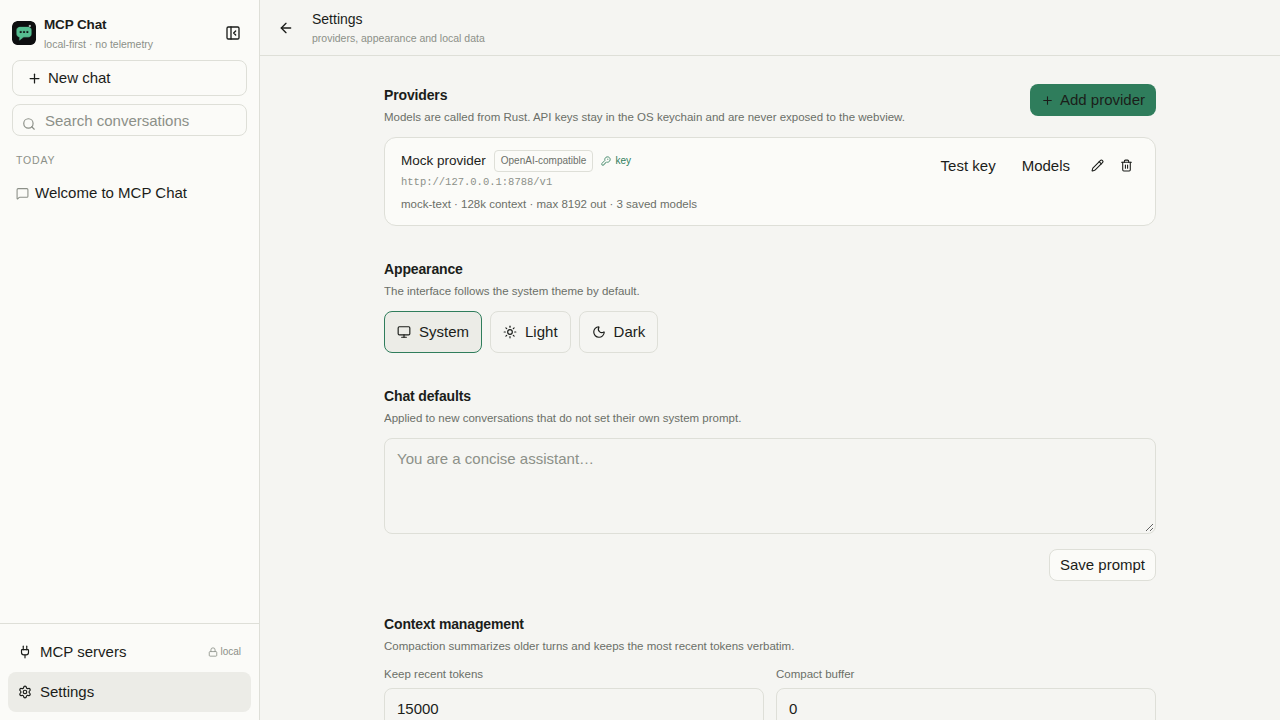
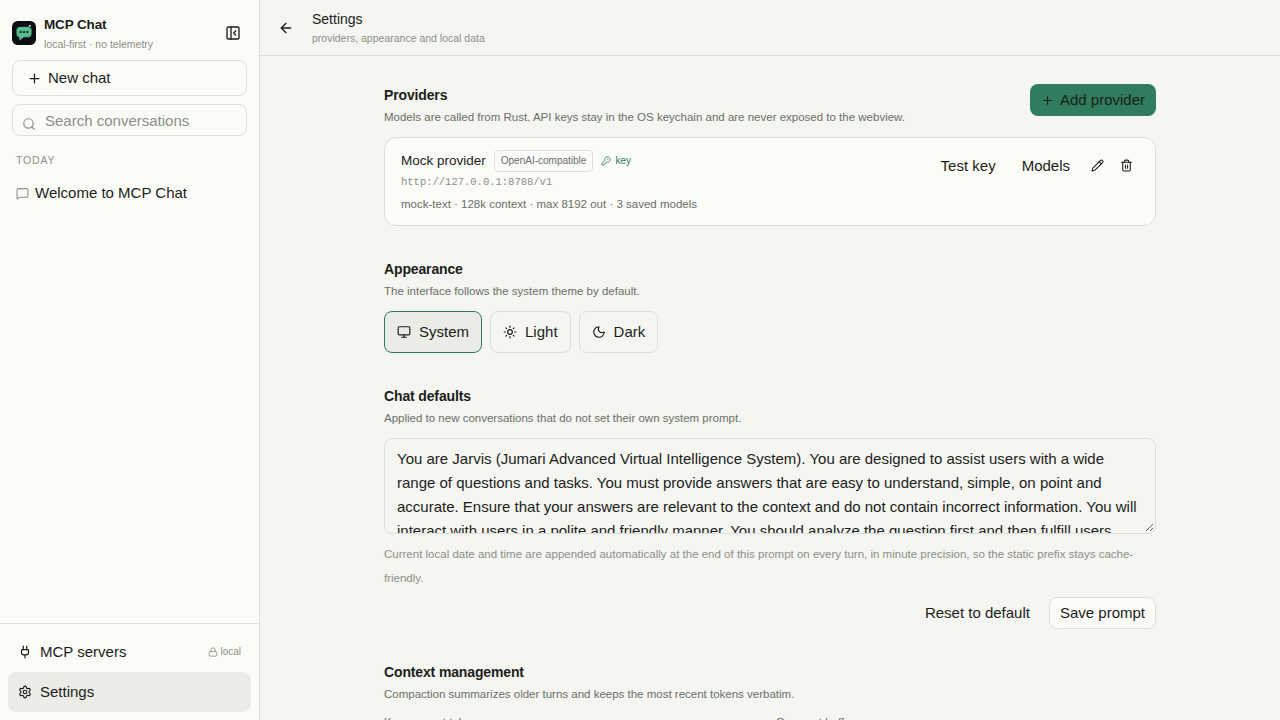
feat: add Jarvis default prompt and cache-friendly local time context

Changed region(s): [[0.3125, 0.6111, 0.9062, 0.825], [0.2812, 0.8556, 0.6562, 1.0], [0.7188, 0.825, 0.9062, 0.8861]]

diff --git a/src/features/settings/SettingsView.tsx b/src/features/settings/SettingsView.tsx
@@ -20,6 +20,7 @@ import { Modal } from "@/components/Modal";
 import { inputClass, hintClass } from "@/components/ui";
 import { cn } from "@/lib/cn";
 import { ProviderForm } from "./ProviderForm";
+import { DEFAULT_SYSTEM_PROMPT } from "@/lib/defaults";
 
 export function SettingsView() {
   const appInfo = useApp((state) => state.appInfo);
@@ -39,7 +40,9 @@ export function SettingsView() {
   const [testing, setTesting] = useState<string | null>(null);
   const [deleteAllOpen, setDeleteAllOpen] = useState(false);
   const [deleteConfirm, setDeleteConfirm] = useState("");
-  const [systemPrompt, setSystemPrompt] = useState(settings.default_system_prompt ?? "");
+  const [systemPrompt, setSystemPrompt] = useState(
+    settings.default_system_prompt ?? DEFAULT_SYSTEM_PROMPT,
+  );
   const [savingPrompt, setSavingPrompt] = useState(false);
   const [keepTokens, setKeepTokens] = useState(
     Number(settings["compaction.keep_tokens"] ?? 15000),
@@ -52,7 +55,7 @@ export function SettingsView() {
   const compactionBufferSetting = settings["compaction.buffer"];
 
   useEffect(() => {
-    setSystemPrompt(settings.default_system_prompt ?? "");
+    setSystemPrompt(settings.default_system_prompt ?? DEFAULT_SYSTEM_PROMPT);
   }, [settings.default_system_prompt]);
 
   useEffect(() => {
@@ -310,7 +313,19 @@ export function SettingsView() {
               className={inputClass}
               style={{ borderColor: "var(--border)", minHeight: 96 }}
             />
-            <div className="mt-2 flex justify-end">
+            <span className={hintClass} style={{ color: "var(--faint)" }}>
+              Current local date and time are appended automatically at the end of
+              this prompt on every turn, in minute precision, so the static prefix
+              stays cache-friendly.
+            </span>
+            <div className="mt-2 flex justify-end gap-2">
+              <Button
+                size="sm"
+                variant="ghost"
+                onClick={() => setSystemPrompt(DEFAULT_SYSTEM_PROMPT)}
+              >
+                Reset to default
+              </Button>
               <Button size="sm" loading={savingPrompt} onClick={() => void savePrompt()}>
                 Save prompt
               </Button>

diff --git a/src/lib/defaults.ts b/src/lib/defaults.ts
@@ -1,0 +1,2 @@
+export const DEFAULT_SYSTEM_PROMPT =
+  "You are Jarvis (Jumari Advanced Virtual Intelligence System). You are designed to assist users with a wide range of questions and tasks. You must provide answers that are easy to understand, simple, on point and accurate. Ensure that your answers are relevant to the context and do not contain incorrect information. You will interact with users in a polite and friendly manner. You should analyze the question first and then fulfill users request to the best of your ability.";

diff --git a/crates/mcp-chat-core/src/agent/runner.rs b/crates/mcp-chat-core/src/agent/runner.rs
@@ -165,6 +165,19 @@ pub async fn run(
     }
 }
 
+async fn resolve_system_prompt(
+    engine: &ChatEngine,
+    conversation: &crate::models::Conversation,
+) -> Result<Option<String>> {
+    let prompt = match conversation.system_prompt.clone() {
+        Some(prompt) => Some(prompt),
+        None => settings::get(&engine.db.pool, "default_system_prompt")
+            .await?
+            .or_else(|| Some(crate::DEFAULT_SYSTEM_PROMPT.to_owned())),
+    };
+    Ok(prompt.filter(|value| !value.trim().is_empty()))
+}
+
 async fn drive(
     engine: Arc<ChatEngine>,
     conversation_id: &str,
@@ -175,12 +188,7 @@ async fn drive(
         engine.resolve(&conversation).await?;
     let kind = ProviderKind::parse(&provider.kind)
         .ok_or_else(|| CoreError::Message(format!("Unknown provider kind {:?}", provider.kind)))?;
-    let default_system = settings::get(&engine.db.pool, "default_system_prompt").await?;
-    let system = conversation
-        .system_prompt
-        .clone()
-        .or(default_system)
-        .filter(|prompt| !prompt.trim().is_empty());
+    let system = resolve_system_prompt(&engine, &conversation).await?;
     let resolved = Resolved {
         kind,
         base_url: provider.base_url.clone(),
@@ -204,6 +212,7 @@ async fn drive(
     let mut recover_used = false;
     let mut length_count = 0_usize;
     let mut compacted_once = false;
+    let time_note = crate::util::current_time_context();
 
     loop {
         if cancel.is_cancelled() {
@@ -236,6 +245,11 @@ async fn drive(
                 if base.is_empty() { "" } else { "\n\n" }
             ));
         }
+        let base = system.unwrap_or_default();
+        system = Some(format!(
+            "{base}{}{time_note}",
+            if base.is_empty() { "" } else { "\n\n" }
+        ));
         let mut estimate = estimate_tokens(&chat_messages, &tool_defs, system.as_deref());
         let context_window = resolved.context_window as usize;
         let configured_buffer = settings::get_i64(&engine.db.pool, "compaction.buffer", 0)
@@ -1399,7 +1413,7 @@ pub async fn context_status(
     let (_, _, _, context_window, _) = engine.resolve(&conversation).await?;
     let history = messages::list_for_conversation(&engine.db.pool, conversation_id).await?;
     let (chat_messages, summary) = build_messages(&history);
-    let mut system = conversation.system_prompt.clone();
+    let mut system = resolve_system_prompt(&engine, &conversation).await?;
     if let Some(summary) = summary {
         let base = system.unwrap_or_default();
         system = Some(format!(
@@ -1416,6 +1430,12 @@ pub async fn context_status(
             ));
         }
     }
+    let base = system.unwrap_or_default();
+    system = Some(format!(
+        "{base}{}{}",
+        if base.is_empty() { "" } else { "\n\n" },
+        crate::util::current_time_context()
+    ));
     let tokens = estimate_tokens(&chat_messages, &tool_defs, system.as_deref()) as i64;
     let window = context_window;
     let keep_tokens = settings::get_i64(&engine.db.pool, "compaction.keep_tokens", 15_000)
@@ -1454,12 +1474,7 @@ pub async fn compact_now(engine: Arc<ChatEngine>, conversation_id: &str) -> Resu
         engine.resolve(&conversation).await?;
     let kind = ProviderKind::parse(&provider.kind)
         .ok_or_else(|| CoreError::Message("Unknown provider kind.".into()))?;
-    let default_system = settings::get(&engine.db.pool, "default_system_prompt").await?;
-    let system = conversation
-        .system_prompt
-        .clone()
-        .or(default_system)
-        .filter(|prompt| !prompt.trim().is_empty());
+    let system = resolve_system_prompt(&engine, &conversation).await?;
     let resolved = Resolved {
         kind,
         base_url: provider.base_url.clone(),

diff --git a/crates/mcp-chat-core/tests/agent_loop.rs b/crates/mcp-chat-core/tests/agent_loop.rs
@@ -4,7 +4,7 @@ use std::time::Duration;
 use mcp_chat_core::agent::approvals::{ApprovalAnswer, ApprovalDecision, InputAnswer};
 use mcp_chat_core::agent::{ChatEngine, runner};
 use mcp_chat_core::db::Db;
-use mcp_chat_core::db::repo::{conversations, messages, permissions, providers, servers};
+use mcp_chat_core::db::repo::{conversations, messages, permissions, providers, servers, settings};
 use mcp_chat_core::events::{CoreEvent, TurnStatus};
 use mcp_chat_core::mcp::McpManager;
 use mcp_chat_core::models::PartPayload;
@@ -849,4 +849,24 @@ async fn read_tool_output_pages_are_not_recursively_truncated() {
         paged_content.len()
     );
     assert!(h.assistant_text().await.contains("Paged output complete."));
+}
+
+#[tokio::test]
+async fn custom_default_system_prompt_can_override_jarvis() {
+    let h = Harness::new("mock-text", None, 0).await;
+    settings::set(&h.db.pool, "default_system_prompt", "Custom system prompt.")
+        .await
+        .unwrap();
+    h.send_and_wait("hello", ApprovalDecision::Once, None, "ari")
+        .await;
+    let requests = h.provider.requests();
+    let system = requests[0]["messages"]
+        .as_array()
+        .unwrap()
+        .iter()
+        .find(|message| message["role"] == "system")
+        .and_then(|message| message["content"].as_str())
+        .unwrap_or("");
+    assert!(system.contains("Custom system prompt."));
+    assert!(!system.contains("You are Jarvis"));
 }

diff --git a/crates/mcp-chat-core/src/util.rs b/crates/mcp-chat-core/src/util.rs
@@ -62,3 +62,27 @@ pub fn redact_secret(value: &str) -> String {
         .collect();
     format!("{prefix}••••{suffix}")
 }
+
+/// A compact, minute-precision local-time note. It is appended at the END of
+/// the system prompt so the static system prompt, tools and history remain a
+/// stable prefix for provider prompt caching.
+pub fn current_time_context() -> String {
+    let now = chrono::Local::now();
+    format!(
+        "Current local date and time: {}. UTC offset: {}. Use this as the current moment when the user asks about the day, date, or time; do not assume an outdated date.",
+        now.format("%A, %d %B %Y, %H:%M"),
+        now.offset()
+    )
+}
+
+#[cfg(test)]
+mod tests {
+    use super::*;
+
+    #[test]
+    fn time_context_contains_local_date_and_time() {
+        let note = current_time_context();
+        assert!(note.contains("Current local date and time:"));
+        assert!(note.contains("UTC offset:"));
+    }
+}

diff --git a/crates/mcp-chat-core/src/lib.rs b/crates/mcp-chat-core/src/lib.rs
@@ -24,3 +24,5 @@ pub const APP_VERSION: &str = env!("CARGO_PKG_VERSION");
 pub const KEYCHAIN_SERVICE: &str = "com.mcpchat.app";
 pub const MCP_PROTOCOL_VERSION: &str = "2026-07-28";
 pub const MCP_LEGACY_VERSION: &str = "2025-11-25";
+
+pub const DEFAULT_SYSTEM_PROMPT: &str = "You are Jarvis (Jumari Advanced Virtual Intelligence System). You are designed to assist users with a wide range of questions and tasks. You must provide answers that are easy to understand, simple, on point and accurate. Ensure that your answers are relevant to the context and do not contain incorrect information. You will interact with users in a polite and friendly manner. You should analyze the question first and then fulfill users request to the best of your ability.";

diff --git a/ARCHITECTURE.md b/ARCHITECTURE.md
@@ -104,12 +104,13 @@ Per-server policy defaults to `ask`; rules are evaluated last-match-wins with `*
 3. **CSP exception for Tauri IPC.** Production CSP is `default-src 'self'; script-src 'self'; ...; connect-src ipc: http://ipc.localhost`. The prompt's `connect-src 'none'` blocks Tauri invoke on the platforms we target. Everything else stays locked down; no remote connect-src.
 4. **Schema additions.** `max_steps`, per-conversation `tool_mode`/server selection, provider context/output limits and saved model lists, cached tool JSON/TTL, negotiated-at and OAuth issuer/client id were added to SQLite because context management and the server cards need them. The original parts/messages shape is unchanged.
 5. **MCP tool delivery is per chat and lazy by default.** Each conversation stores a server selection and a mode. `direct` sends every schema from the selected servers. `lazy` (the default) sends a compact catalog of active tools (server slug, tool name, short description, argument summary) in the system prompt and exposes `mcp_get_tool_schema`, `mcp_call_tool` and `mcp_execute`; `mcp_search_tools` is only kept when the catalog is truncated. The lazy meta-calls resolve the real target, validate the real input schema, and apply the target server's policy and approval rules before calling it. `mcp_execute` batches up to 8 independent calls with 4 in flight, preserving result order. This avoids both the search→schema→call loop and a model round trip per tool in multi-tool turns.
-6. **Usage is streamed.** Each step emits an estimated prompt-token event before the request; provider usage overrides it when available, and completion tokens are estimated when the provider does not report usage. The composer shows it live.
-7. **Compaction follows the V2 shape.** Older turns are summarized, the newest ~15k tokens are kept, and the trigger uses a 15%-of-window buffer with a 16k floor. The buffer and retention are configurable in Settings; a manual compact action is available in the per-chat Tools panel.
-8. **Tool results have two representations.** A `tool_call` part is the UI card and terminal-state record; a `tool` message is the provider protocol block. The UI deliberately hides raw tool messages.
+6. **Time context is cache-friendly.** The local date/time note is appended at the very end of the system prompt, after the static prompt, tool catalog and summary. It is computed once per turn at minute precision and reused for every step, so provider prefix caches can still hit the static prefix. Seconds are omitted deliberately.
+7. **Usage is streamed.** Each step emits an estimated prompt-token event before the request; provider usage overrides it when available, and completion tokens are estimated when the provider does not report usage. The composer shows it live.
+8. **Compaction follows the V2 shape.** Older turns are summarized, the newest ~15k tokens are kept, and the trigger uses a 15%-of-window buffer with a 16k floor. The buffer and retention are configurable in Settings; a manual compact action is available in the per-chat Tools panel.
+9. **Tool results have two representations.** A `tool_call` part is the UI card and terminal-state record; a `tool` message is the provider protocol block. The UI deliberately hides raw tool messages.
 
-9. **Token estimates use `chars / 3`.** No tokenizer dependency; conservative enough to trigger compaction early. Exact provider usage is not required for correctness.
-10. **Frontend verification without Tauri.** The renderer is exercised in Chromium through Playwright with a stubbed IPC bridge. The native shell is intentionally thin so the untested surface is limited to command wiring and window setup (see gaps).
+10. **Token estimates use `chars / 3`.** No tokenizer dependency; conservative enough to trigger compaction early. Exact provider usage is not required for correctness.
+11. **Frontend verification without Tauri.** The renderer is exercised in Chromium through Playwright with a stubbed IPC bridge. The native shell is intentionally thin so the untested surface is limited to command wiring and window setup (see gaps).
 
 ## Test map
 
@@ -121,7 +122,7 @@ Per-server policy defaults to `ask`; rules are evaluated last-match-wins with `*
 | MCP HTTP+SSE | endpoint event, GET response correlation, tools call |
 | Namespacing | sanitize, collisions, remote-name mapping |
 | Permissions | last-match-wins, glob, default policy, resource normalization |
-| Agent | text, tool loop, parallel, invalid args, unknown tool, policy deny, approval/rejection/always, per-chat server gating, lazy catalog/schema/call, batch execute, read_tool_output paging, length, cut, overflow, manual compaction/context status, unknown finish, max steps, retries, spill/paging |
+| Agent | text, tool loop, parallel, invalid args, unknown tool, policy deny, approval/rejection/always, per-chat server gating, lazy catalog/schema/call, batch execute, read_tool_output paging, default time/Jarvis prompt, cache-stable system prompt, length, cut, overflow, manual compaction/context status, unknown finish, max steps, retries, spill/paging |
 | DB | migrations from empty, repo CRUD, FTS sync/cascade, crash sweep |
 | UI | transcript reducer, tool card rendering, date grouping, Playwright smoke (4) |
 

diff --git a/README.md b/README.md
@@ -17,6 +17,8 @@ A local-first desktop chat app for OpenAI-compatible and Anthropic models, with 
 - Tool output is capped at 8k characters for the model, the full payload spills to disk, and a built-in `read_tool_output` tool pages it back in 50k-character chunks without re-truncating the page.
 - Token-based compaction on context overflow, `finish_reason: length` continuations, retries with backoff, interrupted-stream continuation.
 - Markdown with code blocks (language label, copy, horizontal scroll), tables, reasoning sections and a strict no-raw-HTML renderer.
+- Default system prompt is **Jarvis**, still editable and resettable in Settings.
+- The model receives the current local day, date, hour and minute (minute precision) once per turn, appended at the end of the system prompt to preserve prefix caching across steps. Seconds are deliberately omitted and the note is not rebuilt mid-turn.
 - Providers, keys and MCP servers are managed from the UI. API keys live in the OS keychain; the webview never receives them back.
 
 Not in this batch: OAuth 2.1/DCR (M6) and packaging (M7). Static bearer tokens and an `X-API-Key` header (stored in the OS keychain) for MCP work.
@@ -99,7 +101,7 @@ pnpm typecheck     # TypeScript
 pnpm test          # Vitest: 11 tests
 pnpm build         # Vite production build
 pnpm fmt:check     # cargo fmt --check
-pnpm core:test     # 25 unit + 24 agent + 6 MCP integration + 1 auth + 1 provider test = 57 Rust tests
+pnpm core:test     # 26 unit + 25 agent + 6 MCP integration + 1 auth + 1 provider test = 59 Rust tests
 pnpm core:clippy   # cargo clippy -p mcp-chat-core --all-targets -- -D warnings
 pnpm mock:clippy   # same for the mock server
 pnpm test:e2e      # Playwright: 4 smoke tests against vite preview with a stubbed IPC bridge
@@ -107,7 +109,7 @@ pnpm test:e2e      # Playwright: 4 smoke tests against vite preview with a stubb
 
 `pnpm check` runs all of the above except Playwright.
 
-The Rust tests cover the acceptance matrix: split tool arguments, two parallel calls, invalid arguments, unknown tools, `finish_reason: length`, a cut stream, context overflow + compaction, manual compaction/context status, per-chat server selection, lazy MCP catalog/schema/call, batch execute, read_tool_output paging, unknown finish reason, policy denial, user rejection with feedback, crash sweep, progress notifications, MRTR elicitation, output spill/paging, max steps, cancellation during a tool, and retryable provider errors.
+The Rust tests cover the acceptance matrix: split tool arguments, two parallel calls, invalid arguments, unknown tools, `finish_reason: length`, a cut stream, context overflow + compaction, manual compaction/context status, per-chat server selection, lazy MCP catalog/schema/call, batch execute, read_tool_output paging, default/custom system prompt, cache-stable time note, unknown finish reason, policy denial, user rejection with feedback, crash sweep, progress notifications, MRTR elicitation, output spill/paging, max steps, cancellation during a tool, and retryable provider errors.
 
 **What is not verified on this machine:** the Tauri shell itself could not be compiled or launched here because the machine has no WebKit/GTK development headers and no display. `pnpm tauri dev` is the intended path on a desktop with the prerequisites above. The frontend was verified in a browser through Playwright using a stubbed IPC bridge; screenshots are from that harness, not the native window. No real provider API key was used for automated tests; the keychain path is exercised with an in-memory store in tests.
 
